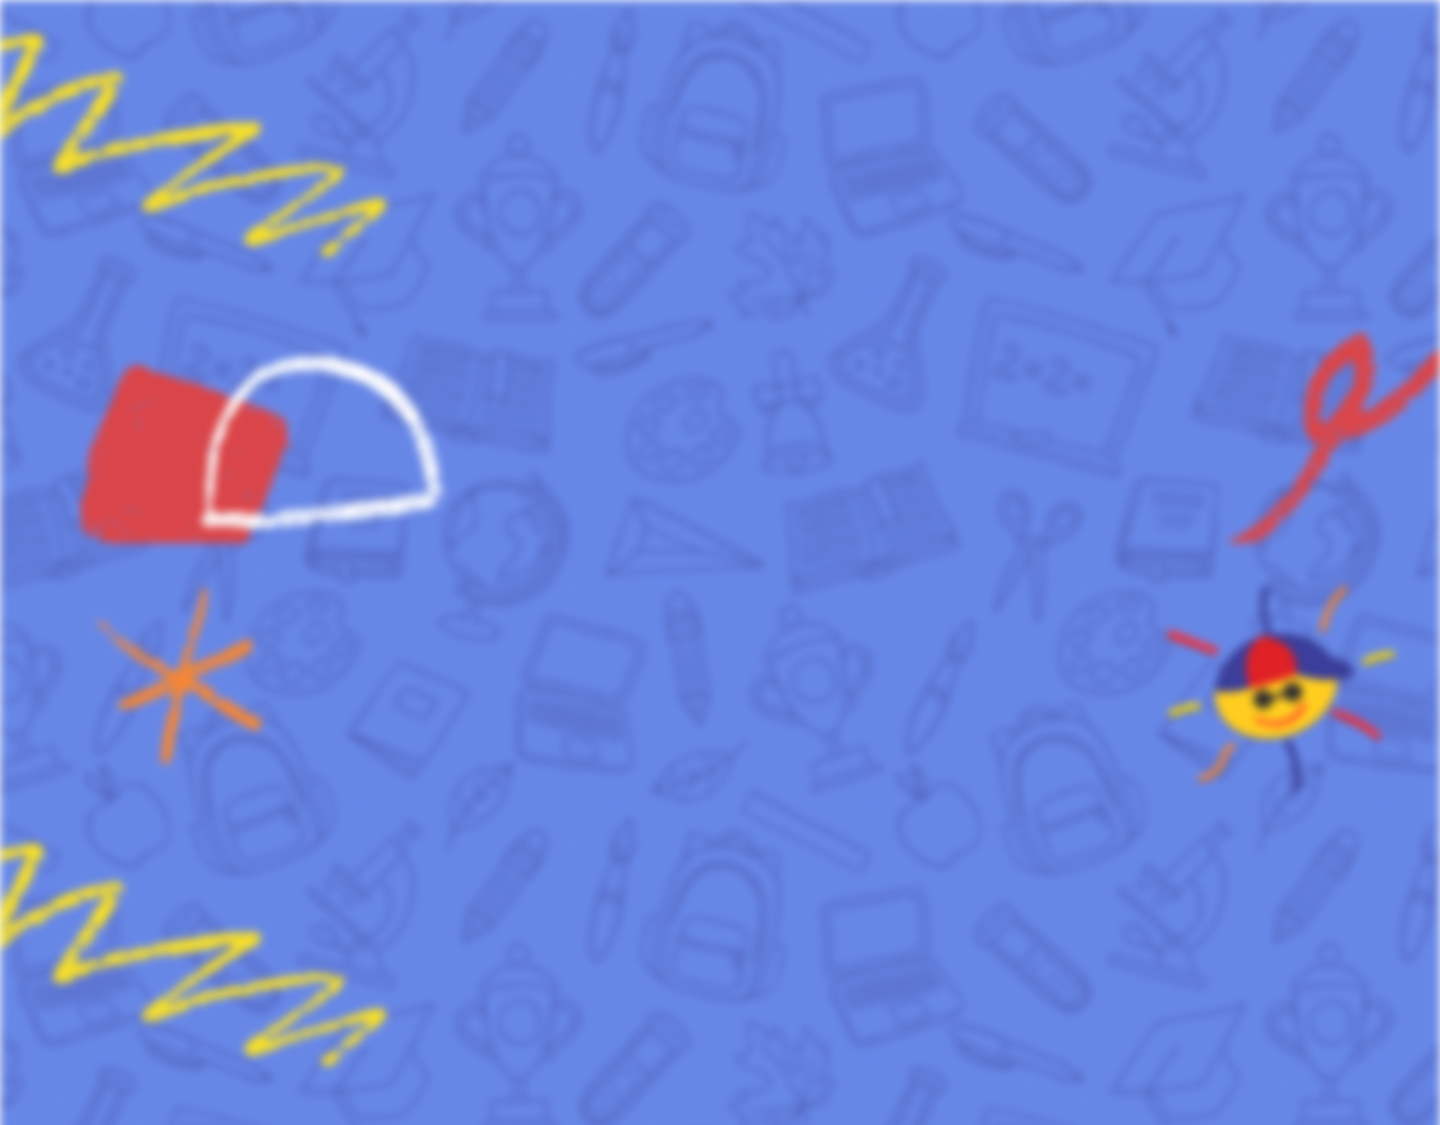
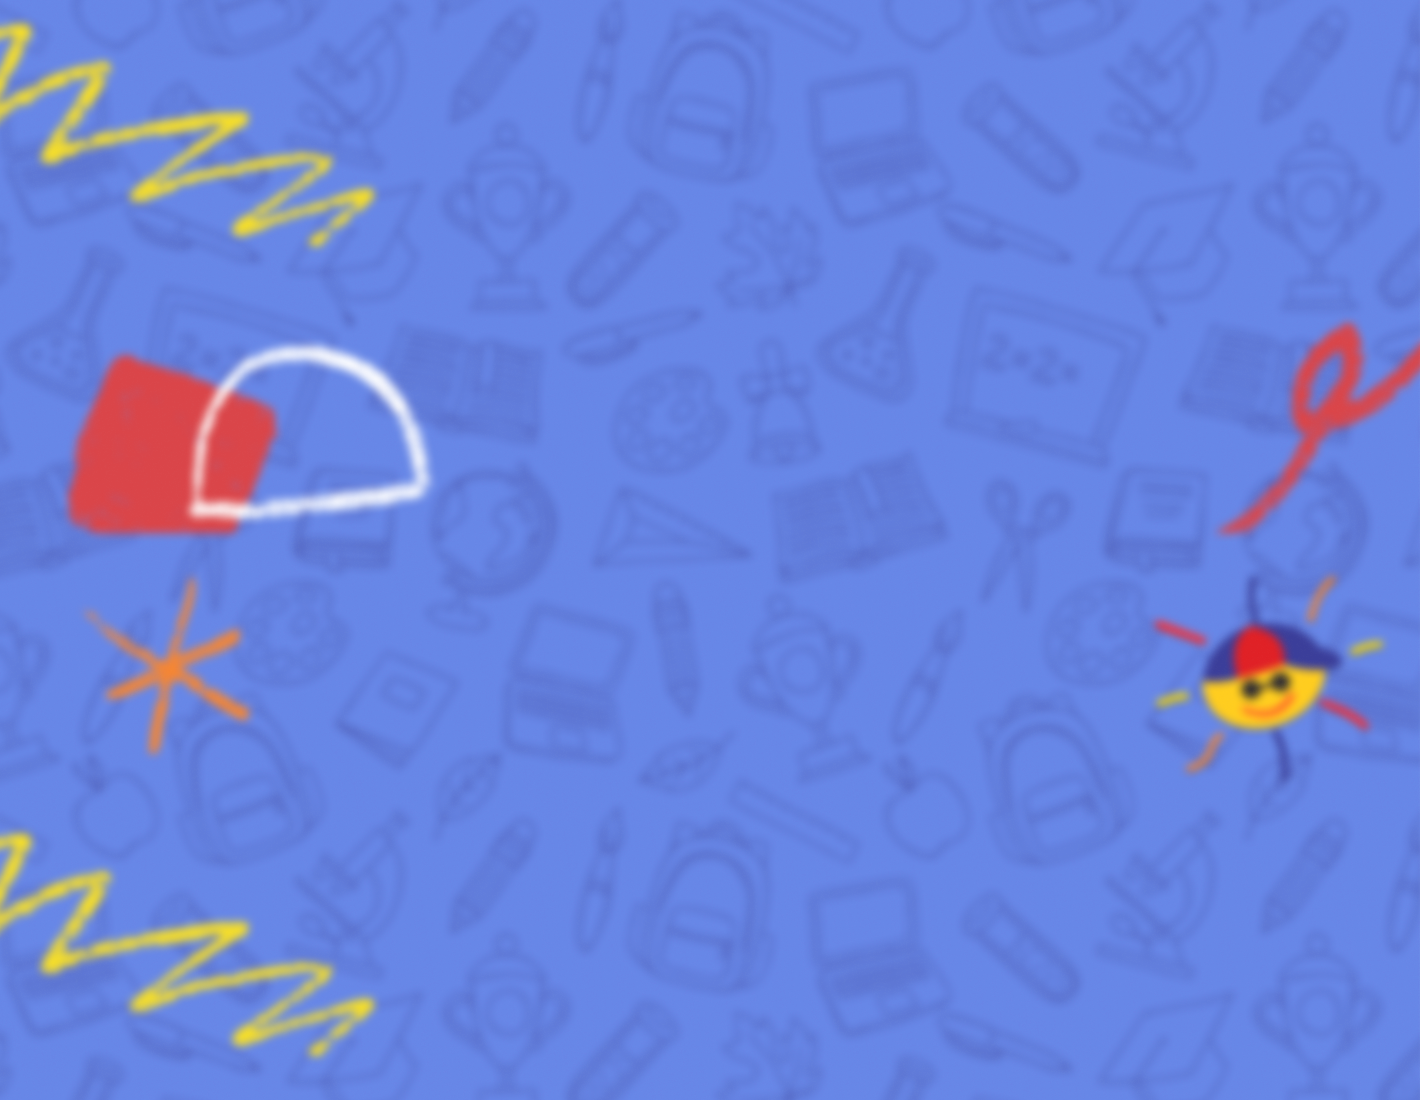
feat: background added and images ajusted

diff --git a/style.css b/style.css
@@ -14,7 +14,8 @@
 body {
     margin: 0;
     font-family: "Luckiest Guy", sans-serif;
-    background-color: #8DA5ED;
+    background-image: url(assets/background.png);
+    background-size: cover;
 }
 
 .wrapper {
@@ -129,8 +130,23 @@ nav ul li a:hover {
     width: 40%;
 }
 
-.passatempo-eventos .right img {
+.passatempo-eventos .right {
+    position: relative;
+}
+
+.passatempo-eventos .right .home_image {
+    position: relative;
     width: 100%;
     height: auto;
     object-fit: cover;
+    padding-right: 70px;
+    z-index: 10;
+}
+
+.passatempo-eventos .right .yellow_spot {
+    position: absolute;
+    width: 160%;
+    left: -25%;
+    top: -450px;
+    z-index: 1;
 }

diff --git a/home.html b/home.html
@@ -71,7 +71,8 @@
             </div>
 
             <div class="right">
-                <img src="images/home_image.png" alt="passatempo">
+                <img src="images/home_image.png" alt="passatempo" class="home_image">
+                <img src="svg/yellow_spot.svg" alt="yellow_spot" class="yellow_spot">
             </div>
         </section>
     </main>
